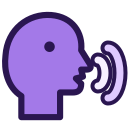
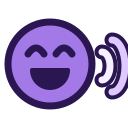
Music's note bar gets a matching "Key" tab on its right end in place of the note symbol. Letters' Names and Sounds pictures are redrawn as alphabet blocks and a smiling talking face, and they show in the alert when switching.

diff --git a/purple_tui/canvas/rooms/music_room.py b/purple_tui/canvas/rooms/music_room.py
@@ -35,6 +35,8 @@ MODE_MUSIC, MODE_LETTERS = "music", "letters"
 PAPER_OUTLINE = "#d0d0d0"
 _KEY_TO_RC = {key: (r - 1, c) for r, row in enumerate(GRID_KEYS) if r >= 1 for c, key in enumerate(row)}
 PITCH_TRANSITION_DURATION = 0.25
+LETTER_PICTURES = ("letters/names.png", "letters/sounds.png")
+KEY_WORD = 0.75               # "Key" on the note bar's right tab, against the key name on its left
 NOTE_STRIP = 0.45             # height of the note-name row under the grid, in keys
 LETTERS_MASH_S = 0.06         # letters closer than this are one hand landing at once
 LETTER_FADE = (1, 1, 0.6, 0.35, 0.15)  # the same letter again and again; past the end it's silent
@@ -527,13 +529,15 @@ class MusicRoom(Room):
 
     def _announce_voice(self):
         """What the keys play now, shown in a toast and heard on one sample, for kids who can't read the header."""
+        picture = None
         if self.letters_mode:
-            text = f"{ICON_KEYBOARD}  Letter {'sounds' if self.say_sounds else 'names'}"
+            text = f"Letter {'sounds' if self.say_sounds else 'names'}"
+            picture = self.app.g.image(LETTER_PICTURES[self.say_sounds], self.app.g.vh(3.4))
             self.play_letter("A")
         else:
             text = self._instrument_label(self.instrument_index)
             self.play_sound_with_instrument("A", self.instrument_index)
-        self._toast = self.app.notify(text, replaces=self._toast)
+        self._toast = self.app.notify(text, picture=picture, replaces=self._toast)
 
     def _spell(self, key: str, now: float):
         """Letters typed without a long rest build words; anything else starts over."""
@@ -725,7 +729,7 @@ class MusicRoom(Room):
     def _header_chips(self, letters: bool | None = None) -> tuple:
         """Enter steps through instruments, shown by their pictures, or in Letters, names and sounds."""
         if self.letters_mode if letters is None else letters:
-            return ("Enter", ("Names", "Sounds"), int(self.say_sounds), ("letters/names.png", "letters/sounds.png")),
+            return ("Enter", ("Names", "Sounds"), int(self.say_sounds), LETTER_PICTURES),
         available = instruments()
         return ("Enter", tuple(name for _, name in available), self.instrument_index % len(available),
                 tuple(instrument_icon(inst_id) for inst_id, _ in available)),
@@ -797,10 +801,11 @@ class MusicRoom(Room):
         return round(size * NOTE_STRIP * 0.62)
 
     def _key_tab_width(self, g, size) -> int:
-        """The key tab's visible width, the same in every key so the grid holds still: the longest name
-        and half a bar height either side."""
+        """The key tabs' visible width, the same in every key so the grid holds still: the longest name
+        (or "Key") and half a bar height either side."""
         px = self._strip_px(size)
-        return max(g.measure(name, px, "mono-heavy-italic", tr=False)[0] for name in FRIENDLY_KEY_NAMES) + self._bar_h(size)
+        labels = [(name, px) for name in FRIENDLY_KEY_NAMES] + [("Key", round(px * KEY_WORD))]
+        return max(g.measure(text, text_px, "mono-heavy-italic", tr=False)[0] for text, text_px in labels) + self._bar_h(size)
 
     def _draw_word_strip(self, g, bar, px):
         """The word the letters spell, with its picture if it has one, and Space to hear it."""
@@ -813,18 +818,20 @@ class MusicRoom(Room):
 
     def _draw_note_strip(self, g, tab_w, xs, bar, px, on_paper):
         """Every letter row plays the same note in a column, so each column is named once, on a ledge
-        as wide as the grid, with a tab naming the key, its note above, tucked behind its left end. Played names go bold so the eye stays on the
-        keys; the key-change sweep gets the selection plate."""
+        as wide as the grid, between a tab naming the key behind its left end and a matching one saying Key behind
+        its right. Played names go bold so the eye stays on the keys; the key-change sweep gets the selection plate."""
         size = xs[1] - xs[0]
         h = bar.h
-        tab = pygame.Rect(xs[0] - tab_w, bar.y, tab_w + h, h)
         ink = paper.INK_MUTED if on_paper else P.MUTED
         ground = mix(paper.WHITE, ink, 0.15) if on_paper else P.TILE
-        g.rect(mix(ground, ink, 0.2), tab, radius=h // 2)
+        face, color = "mono-heavy-italic", paper.INK if on_paper else P.TEXT
+        for x, text, text_px in ((xs[0] - tab_w, FRIENDLY_KEY_NAMES[self.root_index], px),
+                                 (xs[10] - h, "Key", round(px * KEY_WORD))):
+            tab = pygame.Rect(x, bar.y, tab_w + h, h)
+            g.rect(mix(ground, ink, 0.2), tab, radius=h // 2)
+            g.draw_text(text, text_px, tab.centerx + (h // 2 if x > xs[0] else -h // 2), bar.centery, face, color,
+                        anchor="center", tr=False)
         g.rect(ground, bar, radius=h // 2)
-        face, color, cx = "mono-heavy-italic", paper.INK if on_paper else P.TEXT, xs[0] - tab_w // 2
-        g.draw_text(FRIENDLY_KEY_NAMES[self.root_index], px, cx, bar.centery, face, color, anchor="center", tr=False)
-        g.draw_text(ICON_MUSIC, px, cx, tab.y - h // 6, face, ink, anchor="midbottom", tr=False)
         plate = pygame.Rect(0, 0, round(size * 0.8), bar.h - 2 * max(2, bar.h // 8))
         for col in range(10):
             root_idx, sweeping = self._transition_state_for_col(col)

diff --git a/scripts/instrument_icons.py b/scripts/instrument_icons.py
@@ -83,20 +83,25 @@ def glockenspiel():
     return svg("".join(out))
 
 
+def block(x, y, size, fill, letter):
+    """An alphabet block: a rounded tile with a thick dark letter on it."""
+    return f'<rect x="{x}" y="{y}" width="{size}" height="{size}" rx="{size // 5}" fill="{fill}" {O}/>' + (
+        f'<path d="{letter}" transform="translate({x} {y}) scale({size / 64})" stroke="{D}" stroke-width="9"'
+        ' fill="none" stroke-linecap="round" stroke-linejoin="round"/>')
+
+
 def names():
-    """A B C in capitals, a little staggered like blocks."""
-    return svg(stroke("M6 98 L21 38 L36 98 M11 80 H31", P5, 11)
-               + stroke("M48 30 V90 H60 A15 15 0 0 0 60 60 H48 M48 30 H58 A14 14 0 0 1 58 58", P4, 11)
-               + stroke("M120 50 A18 26 0 1 0 120 88", P5, 11))
+    """Alphabet blocks: A in front of B."""
+    return svg(block(48, 6, 72, P3, "M20 14 V50 H35 A9 9 0 0 0 35 32 H20 M20 14 H33 A9 9 0 0 1 33 32")
+               + block(8, 46, 76, P5, "M16 52 L32 12 L48 52 M21 40 H43"))
 
 
 def sounds():
-    """A head in profile saying something: open mouth and sound arcs."""
-    head = ("M22 124 V100 C6 90 2 70 4 54 C6 24 30 6 56 8 C80 10 92 28 90 48 L100 64 C102 68 100 70 96 70 H90"
-            " L92 78 L84 80 L90 86 C90 94 86 96 80 96 H66 V124 Z")
-    return svg(f'<g transform="translate(2 8) scale(0.88)"><path d="{head}" fill="{P3}" {O}/>'
-               f'<circle cx="54" cy="44" r="6" fill="{D}"/></g>'
-               + stroke("M98 60 A7 13 0 0 1 98 86", P6, 7) + stroke("M108 48 A12 25 0 0 1 108 98", P5, 7))
+    """A happy round face saying something out loud: open mouth and sound waves."""
+    return svg(f'<circle cx="50" cy="64" r="42" fill="{P3}" {O}/>'
+               f'<path d="M28 54 Q36 42 44 54 M56 54 Q64 42 72 54" stroke="{D}" stroke-width="7" fill="none" stroke-linecap="round"/>'
+               f'<path d="M32 70 H68 A18 18 0 0 1 32 70 Z" fill="{D}" stroke="{D}" stroke-width="4" stroke-linejoin="round"/>'
+               + stroke("M102 52 A8 14 0 0 1 102 80", P6, 7) + stroke("M112 40 A13 26 0 0 1 112 92", P5, 7))
 
 
 def render(draw, folder):
